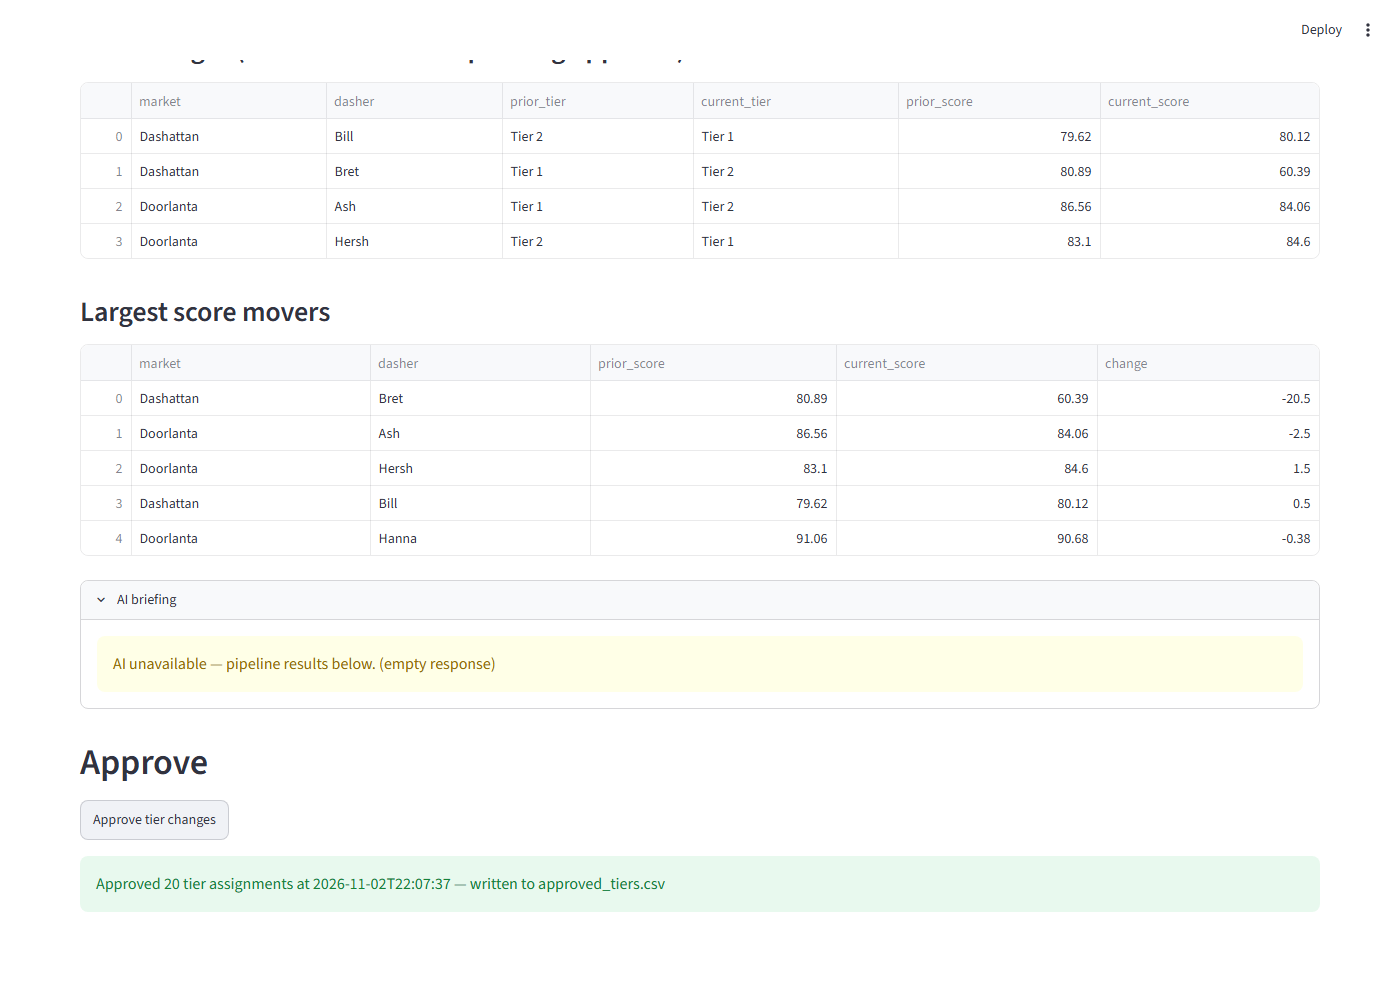
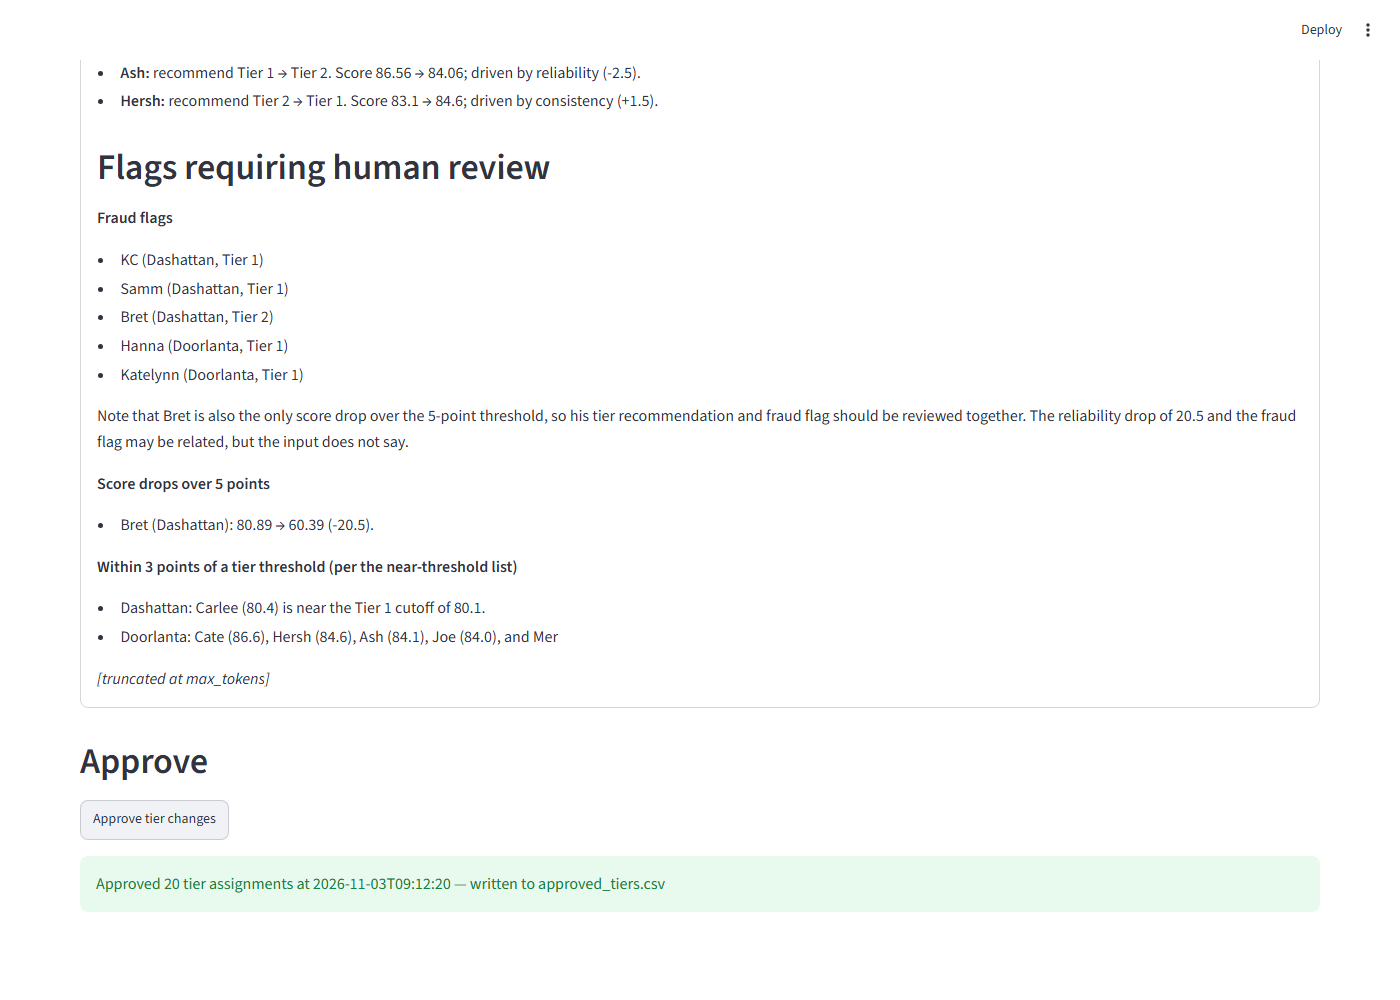
phase 8: verified end-to-end run, full-page screenshot, max_tokens 1000
Both AI panels return text with thinking off (between_tools). Outputs captured verbatim
in demo/e2e_*.md; both truncated at max_tokens=800, so MAX_TOKENS raised to 1000
(untested). Briefing violates the no-counts prompt rule (states 'Four tier-change
recommendations' and 'Five Dashers carry fraud-review flags'); QA honours
known_and_accepted but its VERDICT line was lost to truncation. README: ephemeral
approved_tiers.csv note; screenshot now full-page.

diff --git a/ai.py b/ai.py
@@ -19,7 +19,7 @@ from dotenv import load_dotenv
 import pipeline
 
 MODEL = "claude-sonnet-5-5"          # current Sonnet (human's choice, 2026-11-02)
-MAX_TOKENS = 800
+MAX_TOKENS = 1000                    # both outputs truncated at 800 on the 2026-11-03 run; 1000 is untested
 PROMPTS_DIR = Path(__file__).with_name("prompts")
 QA_PROMPT = PROMPTS_DIR / "qa_system.md"
 BRIEFING_PROMPT = PROMPTS_DIR / "briefing_system.md"

diff --git a/demo/e2e_qa.md b/demo/e2e_qa.md
@@ -1,0 +1,22 @@
+Data-QA Report: Dasher Scoring Pipeline
+
+Schema and structure
+
+Schema: 38 of 38 expected columns present, none missing, none unexpected. NOTE: no drift, and the 12 derived fields are all present.
+Duplicates: 0 duplicate DELIVERY_NAME values. NOTE: no double-counted deliveries.
+Rows: 1,200 total, 600 per city, and the ASAP/scheduled split is 1,126/74. NOTE: balanced sample, so neither city dominates scoring.
+City windows: Dashattan runs 13 days (Jun 1-13) and Doorlanta 8 days (Jun 1-8). NOTE: known and accepted extract design, but Doorlanta Dashers have fewer days of exposure when comparing volume-based metrics across cities.
+
+Missing values
+
+DELIVERY_RATING missing, 616 rows (51.3%): NOTE. Known and accepted: unrated deliveries stay out of rating denominators, so rating-based scores rest on about 584 rated deliveries.
+DASHER_WAIT_DURATION and wait_min missing, 191 rows (15.9%): NOTE. Known and accepted: kept NaN with no forgiveness applied. The breakdown (124 no arrival logged, 67 arrival after pickup) sums to 191, consistent with the profile.
+DASHER_AT_STORE_TIME and DASHER_AT_STORE_TIME_GALAXY_A missing, 124 rows (10.3%): NOTE. These match the 124 "no arrival logged" rows, so the gap is internally consistent.
+DASHER_TO_RESTAURANT_DURATION missing, 132 rows (11.0%): NOTE. Covers the 124 no-arrival rows plus the 8 arrival-before-confirmation rows, and the field is unused.
+RESTAURANT_TO_CUSTOMER_DURATION missing, 1 row (0.1%): NOTE. Negligible, but any metric using this field should skip that row.
+
+Standing exclusions
+
+COMPOSITE_SCORE, NUM_ON_TIME_DELIVERIES (40.9% missing), DASHER_TO_STORE_TIME_CATEGORY (26.8% missing) and CANCELLED_AT (100% missing): NOTE. Exclu
+
+[truncated at max_tokens]

diff --git a/demo/e2e_briefing.md b/demo/e2e_briefing.md
@@ -1,0 +1,38 @@
+Widget Dasher Program: Weekly Ops Briefing
+Summary
+Four tier-change recommendations this week, two per market; the biggest mover is Bret in Dashattan, down 20.5 points on reliability alone.
+Five Dashers carry fraud-review flags (KC, Samm, Bret, Hanna, Katelynn), and two of them (KC, Samm) are Tier 1 in Dashattan.
+Doorlanta's Tier 1/Tier 2 boundary is tight: the last Tier 1 score is 84.6 and the first Tier 2 score is 84.1, so small shifts next run could swap tiers. Counts are in the table above.
+Tier changes (recommendations pending human approval)
+
+Dashattan
+
+Bill: recommend Tier 2 → Tier 1. Score 79.62 → 80.12; driven by consistency (+0.5).
+Bret: recommend Tier 1 → Tier 2. Score 80.89 → 60.39; driven by reliability (-20.5). No other component moved.
+
+Doorlanta
+
+Ash: recommend Tier 1 → Tier 2. Score 86.56 → 84.06; driven by reliability (-2.5).
+Hersh: recommend Tier 2 → Tier 1. Score 83.1 → 84.6; driven by consistency (+1.5).
+Flags requiring human review
+
+Fraud flags
+
+KC (Dashattan, Tier 1)
+Samm (Dashattan, Tier 1)
+Bret (Dashattan, Tier 2)
+Hanna (Doorlanta, Tier 1)
+Katelynn (Doorlanta, Tier 1)
+
+Note that Bret is also the only score drop over the 5-point threshold, so his tier recommendation and fraud flag should be reviewed together. The reliability drop of 20.5 and the fraud flag may be related, but the input does not say.
+
+Score drops over 5 points
+
+Bret (Dashattan): 80.89 → 60.39 (-20.5).
+
+Within 3 points of a tier threshold (per the near-threshold list)
+
+Dashattan: Carlee (80.4) is near the Tier 1 cutoff of 80.1.
+Doorlanta: Cate (86.6), Hersh (84.6), Ash (84.1), Joe (84.0), and Mer
+
+[truncated at max_tokens]

diff --git a/README.md b/README.md
@@ -14,6 +14,8 @@ DoorDash case data (`data/2026_Platform_Ops_Widget_Data.xlsx`). The analysis tha
 
 Optional: put `ANTHROPIC_API_KEY=...` in `.env` (or Streamlit secrets) to enable the AI panels. Without a
 key the app runs in degraded mode and says so; every number on screen comes from `pipeline.py` either way.
+The Approve button writes `approved_tiers.csv` next to the app; on Streamlit Cloud that file is ephemeral
+(gone on restart), which is fine for the demo.
 
 ## Lock test
     pytest test_lock.py -v
